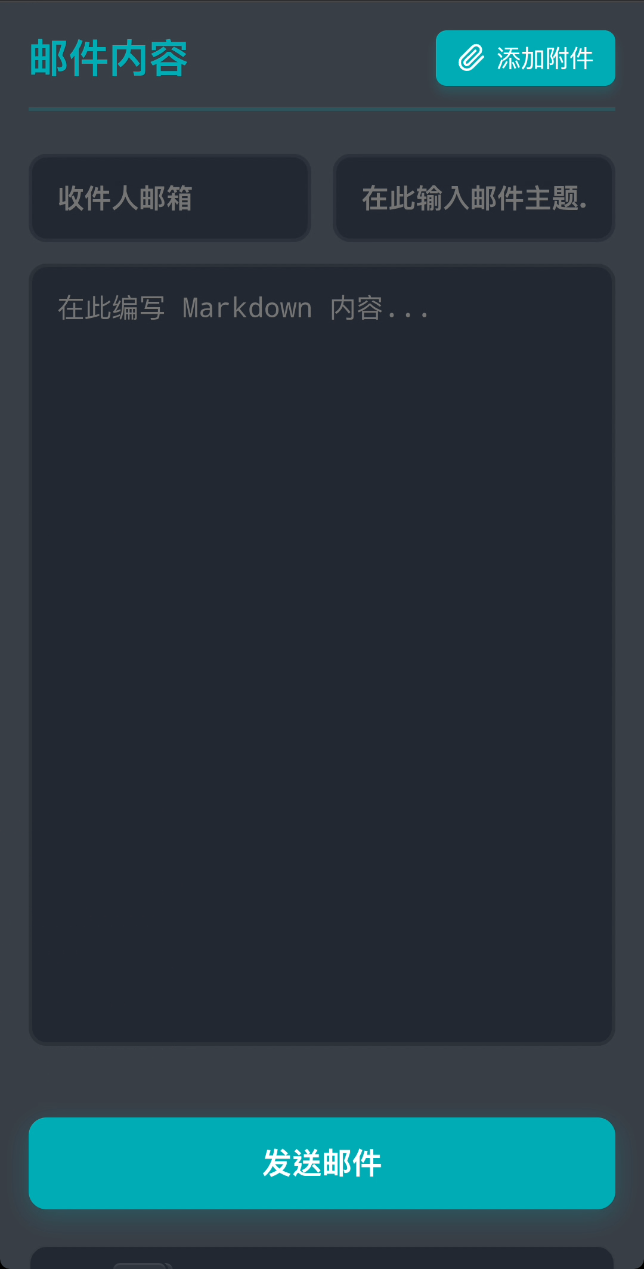
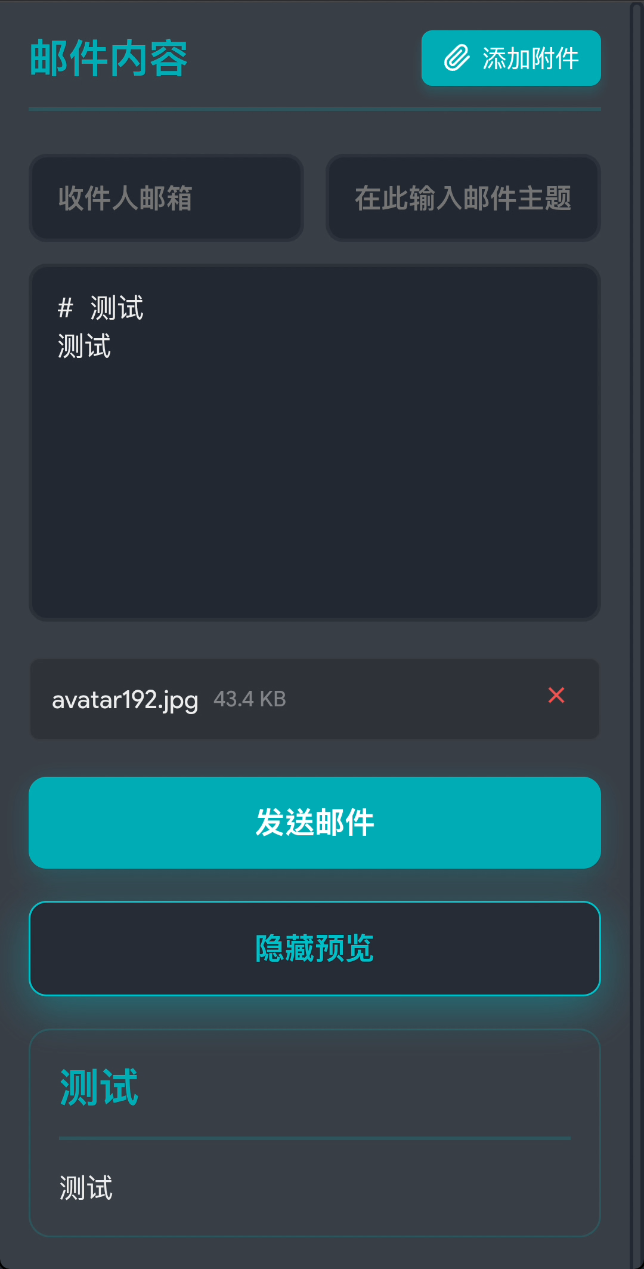
更新说明文档

diff --git a/README.md b/README.md
@@ -1,19 +1,29 @@
 # resend-send
 
-利用 [Resend](https://resend.com/) API 便利地发送邮件，让你拥有类似于邮件客户端的使用体验
+简单的Web应用，利用 [Resend](https://resend.com/) API 便利地发送邮件，让你拥有类似于邮件客户端的使用体验
 
 本项目用于部署到 [Cloudflare](https://dash.cloudflare.com/) Workers 上，无需准备环境和服务器，可以直接在浏览器访问worker地址或自定义域名访问
 
 ---
+## 功能
+- 用 [Markdown](https://docs.github.com/zh/get-started/writing-on-github/getting-started-with-writing-and-formatting-on-github/basic-writing-and-formatting-syntax) 编写邮件内容，支持预览
+- 可以发送附件
+
+---
 ## 预览截图
 1. 电脑
-![登录界面]()
+![登录界面](./github/PC登录.png)
+![编辑界面](./github/PC编辑.png)
 
+2. 手机
+
+<img src="./github/手机登录.png" width="49%" /> <img src="./github/手机编辑.png" width="49%" />
 
 ---
 ##  你需要的
-- 了解[如何获取Resend API](https://developers.cloudflare.com/workers/tutorials/send-emails-with-resend/)
+- 一个[Resend API Key](https://developers.cloudflare.com/workers/tutorials/send-emails-with-resend/)
 - 一个 [Cloudflare 账号](https://dash.cloudflare.com/)
+- 熟悉 [Markdown](https://docs.github.com/zh/get-started/writing-on-github/getting-started-with-writing-and-formatting-on-github/basic-writing-and-formatting-syntax) 语法
 - 一个[自己的域名](https://www.namesilo.com/)（可选）
 
 ---
@@ -21,6 +31,49 @@
 又两种方式部署，一个需要Fork本仓库，一个不需要
 ### 1. Fork 本仓库
 1. Fork 本仓库到你的 GitHub 账号下
-2. 进入
+2. 进入 [Cloudflare 仪表盘](https://dash.cloudflare.com/)
+3. 点击左栏的`计算与 AI`，进入`Workers 和 Pages`页面
+![计算与AI](./github/计算与AI.png)
+4. 点击`创建应用程序`
+![创建应用程序](./github/创建应用程序.png)
+5. 选择`Continue with GitHub`
+![Continue with GitHub](./github/GitHub.png)
+6. 如下图配置应用后部署
+![Worker配置](./github/Worker配置.png)
+- 选择刚才Fork的仓库
+- 构建命令（安装wrangler）
+```bash
+npm install
+```
+- 部署命令
+```bash
+npx run deploy
+```
+7. 部署好后进入 Worker 的设置
+![Worker设置](./github/Worker设置.png)
+8. 设置 [Resend API Key](https://resend.com/api-keys) 和访问密码环境变量
+![设置变量](./github/设置变量.png)
+如上图设置两个`密钥`类型的环境变量：`RESEND_API_KEY` 和 `
+AUTH_PASSWORD`，保存并部署
+9. 设置自定义域名方便记忆（可选）
+![设置自定义域名](./github/自定义域.png)
+10. 访问Worker
 
 ### 2. 不需要 Fork
+1. `复制`本仓库 `worker.js` 的内容
+2. 完成`上一节`的`第2步到第4步`
+3. 选择`从 Hello World! 开始`，然后点击部署
+![从 Hello World! 开始](./github/0.png)
+4. 点击进入部署好的 Worker 界面，点击右上角的`编辑代码`
+![编辑代码](./github/编辑代码.png)
+5. `粘贴`刚才复制的代码，点击右上角`部署`
+![部署](./github/部署.png)
+6. 完成`上一节`的第`7步到第10步`
+
+---
+## 使用方法
+1. 登录界面输入设置的密码，登录，名字可以随便填
+2. 用 [Markdown](https://docs.github.com/zh/get-started/writing-on-github/getting-started-with-writing-and-formatting-on-github/basic-writing-and-formatting-syntax) 编辑邮件，发送
+
+---
+祝你使用愉快！如果有任何问题，欢迎在仓库中提出 issue。
